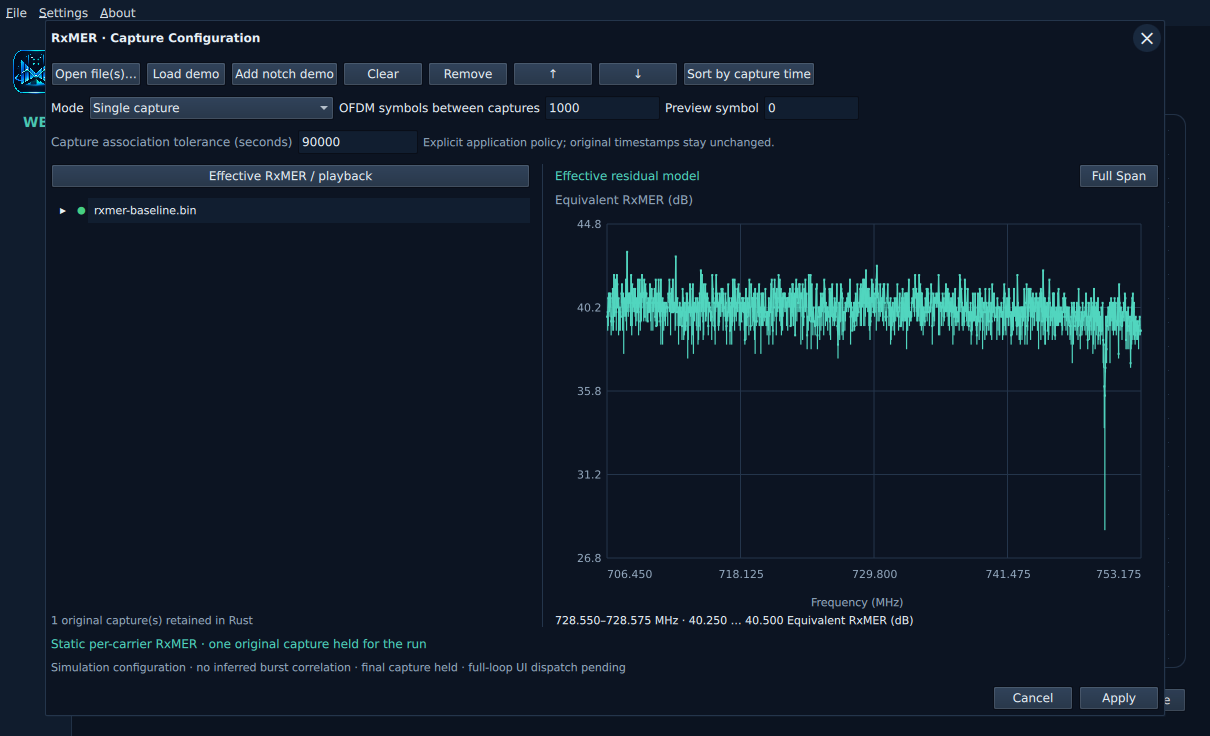
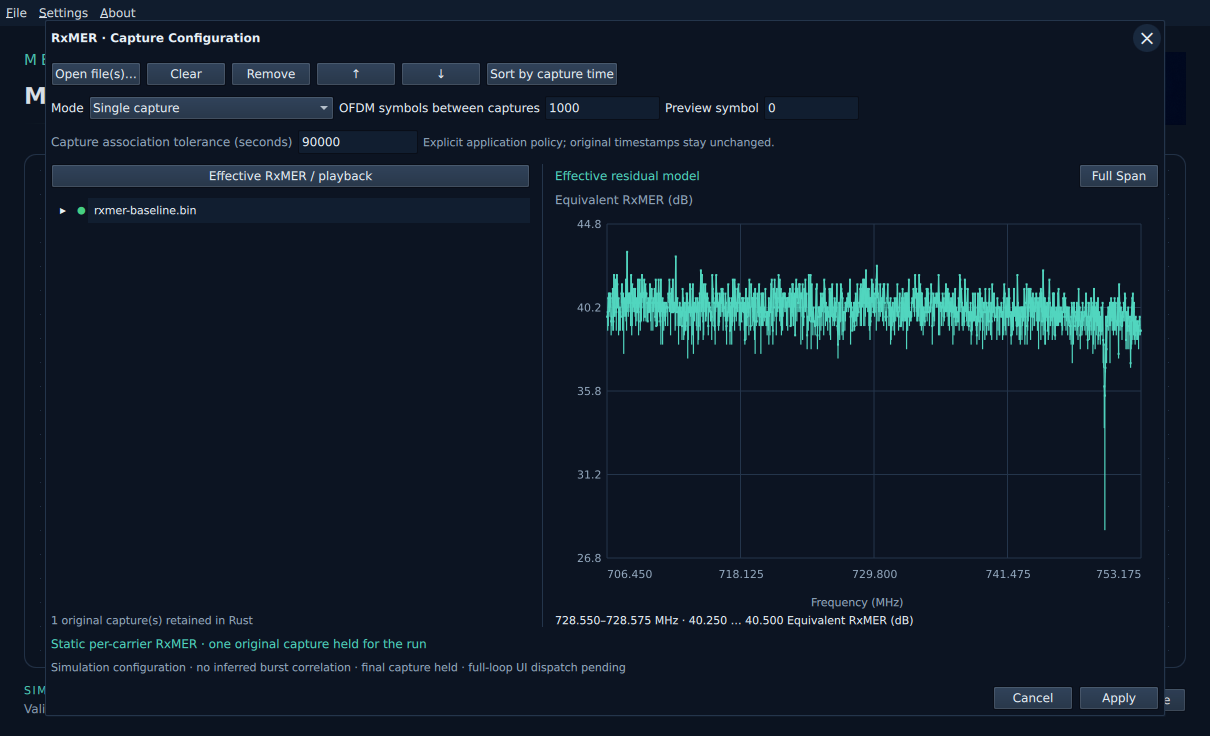
Feature: Simplify the RxMER capture toolbar - Remove Load demo and Add notch demo from RxMER - Preserve native file and collection controls - Retain the Channel Estimate demo action - Update architecture, checklists and task design - Refresh the guide and three dark VM screenshots - Tests: Pass 26 Q

Changed region(s): [[0.1223, 0.0625, 0.6727, 0.125], [0.0, 0.0625, 0.0612, 0.1875], [0.0, 0.9375, 0.0306, 0.9688]]

diff --git a/apps/qt/qml/MeasurementInputDialog.qml b/apps/qt/qml/MeasurementInputDialog.qml
@@ -36,8 +36,7 @@ WorkbenchDialog {
         spacing: 10
         RowLayout {
             Button { objectName: "measurementOpen"; text: dialog.rxmer ? "Open file(s)…" : "Open file…"; onClicked: dialog.setMetadata(backend.choose_files(dialog.rxmer)) }
-            Button { objectName: "measurementDemo"; text: "Load demo"; onClicked: dialog.setMetadata(backend.demo(dialog.rxmer, 0)) }
-            Button { objectName: "measurementNotchDemo"; visible: dialog.rxmer; text: "Add notch demo"; onClicked: dialog.setMetadata(backend.demo(true, 1)) }
+            Button { objectName: "measurementDemo"; visible: !dialog.rxmer; text: "Load demo"; onClicked: dialog.setMetadata(backend.demo(false, 0)) }
             Button { text: dialog.rxmer ? "Clear" : "Flat / unity"; onClicked: dialog.setMetadata(backend.edit(dialog.rxmer, -1, 0)) }
             Button { visible: dialog.rxmer; text: "Remove"; enabled: viewer.selectedIndex >= 0; onClicked: dialog.setMetadata(backend.edit(true, viewer.selectedIndex, 0)) }
             Button { visible: dialog.rxmer; text: "↑"; Accessible.name: "Move capture earlier"; enabled: viewer.selectedIndex > 0; onClicked: dialog.setMetadata(backend.edit(true, viewer.selectedIndex, -1)) }

diff --git a/apps/qt/tests/tst_workbench.qml b/apps/qt/tests/tst_workbench.qml
@@ -511,7 +511,9 @@ Pane {
             mouseClick(findChild(workbench, "rxmerBlock"))
             tryCompare(workbench.rxmerPopup, "opened", true)
             verify(findChild(workbench.rxmerPopup, "sharedMeasurementViewer") !== null)
-            mouseClick(findChild(workbench.rxmerPopup, "measurementDemo"))
+            compare(findChild(workbench.rxmerPopup, "measurementDemo").visible, false)
+            compare(findChild(workbench.rxmerPopup, "measurementNotchDemo"), null)
+            mouseClick(findChild(workbench.rxmerPopup, "measurementOpen"))
             mouseClick(findChild(workbench.rxmerPopup, "measurementApply"))
             tryCompare(workbench.rxmerPopup, "visible", false)
             compare(findChild(workbench, "rxmerBlock").blockStatus, "complete")

diff --git a/docs/development/features/rxmer-workbench/design.md b/docs/development/features/rxmer-workbench/design.md
@@ -5,6 +5,27 @@ I/Q and generalized observation selection remain pending.
 
 # Shared channel measurement configuration
 
+## UI-RXMER-04: Remove demo actions from RxMER
+
+Remove Load demo and Add notch demo from the RxMER toolbar. Keep native
+Open file(s), collection controls, existing imports and accepted WB restoration.
+The shared Channel Estimate editor retains its own Load demo action. This is a
+presentation-only change in `MeasurementInputDialog.qml`; Rust demo fixtures and
+decoder tests remain available for development. Update the existing interaction
+test to exercise Open file(s), run QML checks, rebuild Qt using retained artifacts
+and refresh the actual dark RxMER guide screenshots on the VM.
+
+Complete: all 26 QML checks passed, including file selection, hidden/removed
+demo actions and joint channel readiness. The current native Qt executable is
+built with retained Cargo artifacts. On the Ubuntu 22.04 VM, restored a saved
+baseline, reviewed the cleaned toolbar and wheel zoom, then imported the existing
+notch JSON through the native picker and inspected a two-file interpolated-power
+preview at symbol 500. Cancel preserved the accepted single capture. Refreshed
+the three affected dark RxMER screenshots; the native log has no QML warnings.
+Local logs remain under `docs/development/local/visual-workspace/rxmer-toolbar-*`.
+No Rust processing or non-Qt checks were needed; other target runtimes remain
+unverified.
+
 Status: shared Channel Estimate/RxMER editors, title/File labels and About are
 implemented. Static/power-average/hold/interpolated-power Rust preview operations
 are implemented. Full-loop UI dispatch, receiver QAM and channel/RX SA wiring

diff --git a/docs/user/channel-measurements.md b/docs/user/channel-measurements.md
@@ -69,8 +69,9 @@ implicit looping. Recorded capture times are separate from this playback clock.
 
 ![Interpolated-power preview between two captures](../images/workbench/rxmer-interpolation-dark.png)
 
-**Load demo** adds the sanitized binary baseline; **Add notch demo** adds the
-existing decoded alternative. Adding a second file requires selecting Average or
+RxMER uses **Open file(s)…** for capture selection; Load demo and Add notch demo
+have been removed from its toolbar. The Channel Estimate editor retains its own
+Load demo action. Adding a second file requires selecting Average or
 one of the sequence modes. The combined chart always identifies the effective
 residual model, not a new measured capture. RxMER does not establish real burst
 correlation or reconstruct measured I/Q.

diff --git a/docs/architecture.md b/docs/architecture.md
@@ -356,6 +356,13 @@ old results, and never starts a simulation automatically. Rejected loads preserv
 the current workbench. Saving does not overwrite original PNM captures. Generated
 results, caches and worker state are not configuration.
 
+### RxMER capture actions (UI-RXMER-04)
+
+The RxMER capture toolbar uses native Open file(s) and collection controls;
+demo/notch actions are removed (UI-RXMER-04). The shared Channel Estimate dialog
+retains its own demo action. Existing Rust fixture/import APIs and WB restores
+are unchanged. See the [design](development/features/rxmer-workbench/design.md#ui-rxmer-04-remove-demo-actions-from-rxmer).
+
 ### Chart zoom interaction (UI-ZOOM-01)
 
 Workbench-wide zoom policy (UI-ZOOM-01): existing zoomable charts use wheel/

diff --git a/docs/development/checklist.md b/docs/development/checklist.md
@@ -714,6 +714,7 @@ UI-SHELL-10 centers merge/split connectors, refines the header pulse/underline
 and identifies OSSI PNM types inside the three capture-input cards.
 UI-SHELL-11 removes the left gutter; UI-VERIFY-02 adds a structured recovered-data
 panel with bounded payload recovery and per-payload bit-error charts.
+UI-RXMER-04 removes demo/notch actions from RxMER, retaining native file selection.
 UI-ZOOM-01 replaces zoom buttons in TX/RX SA and measurement viewers with shared
 mouse wheel/range navigation and Full Span; see the [design](features/mouse-zoom/design.md).
 UI-SHELL-02/03 provide a standard top File | Settings | About menu, with appearance

diff --git a/docs/development/ui-checklist.md b/docs/development/ui-checklist.md
@@ -7,6 +7,9 @@ See the [task design](features/visual-workspace/design.md). The initial shell is
 
 ## UI-01: Workbench and section dialogs
 
+- [x] **UI-RXMER-04** Remove RxMER demo/notch buttons and use Open file(s).
+  [Design](features/rxmer-workbench/design.md#ui-rxmer-04-remove-demo-actions-from-rxmer).
+
 - [x] **UI-SHELL-11** Remove the left icon/WB gutter and use equal side margins.
   [Design](features/verification-panel/design.md).
 - [x] **UI-VERIFY-02** Restyle PRBS-RX with comparison cards, payload recovery
